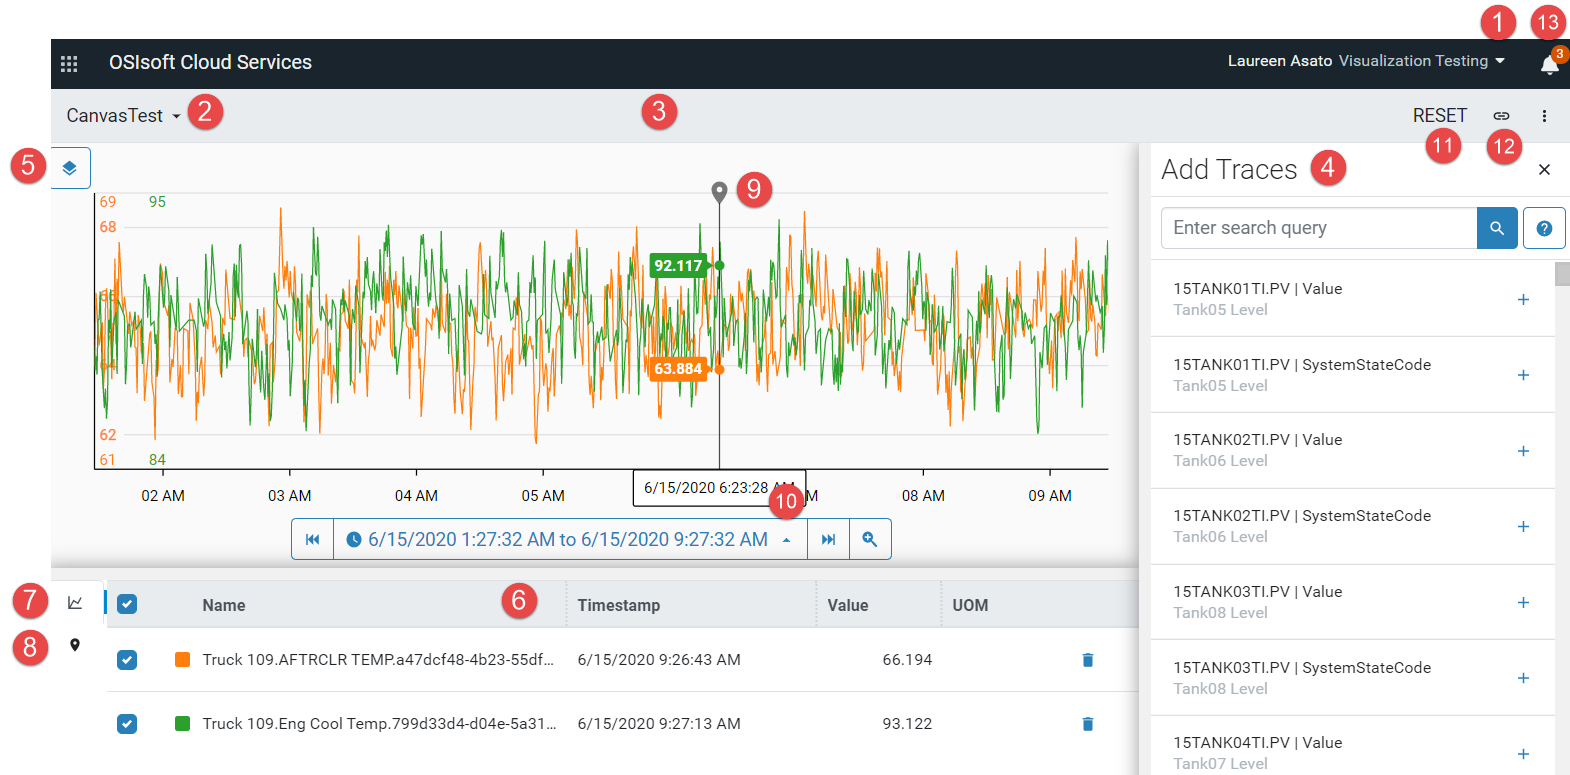
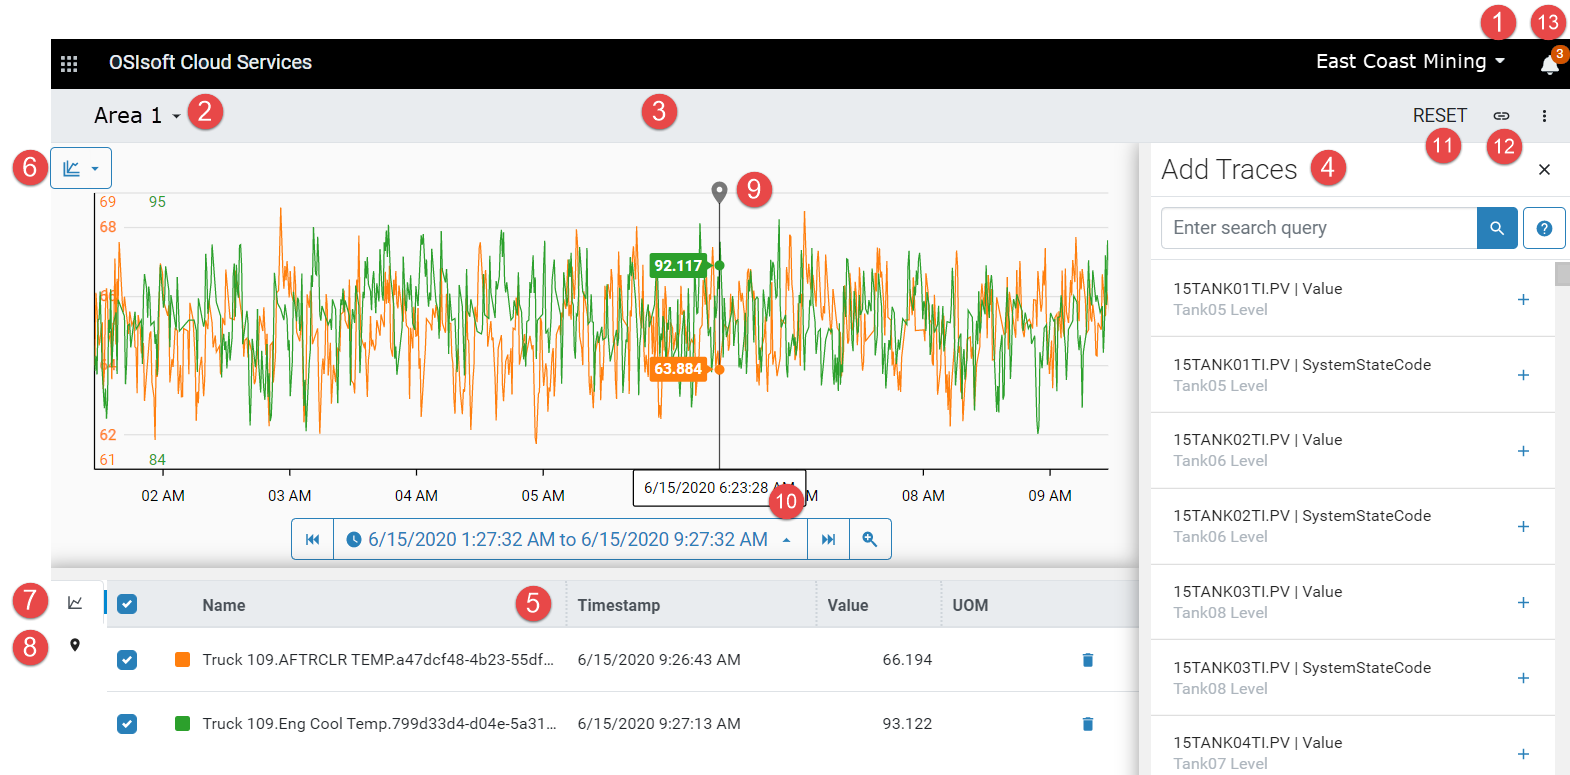
Edited Trend topics, added image files

Changed region(s): [[0.0312, 0.031, 1.0, 0.1548], [0.3121, 0.7432, 0.3745, 0.8052], [0.0, 0.1858, 0.0624, 0.2477]]

diff --git a/Content_Portal/Quickstarts/Getting-Started-Trend.md b/Content_Portal/Quickstarts/Getting-Started-Trend.md
@@ -9,8 +9,6 @@ Trace data can be displayed in a trend and used to monitor assets, anticipate pr
 
 The following procedure describes how to display traces in your trend and glean useful information from your data.
 
-WRITER'S NOTE: Once we approve the text, I will update the screen captures and use the same traces in all the examples.
-
 Procedure
 ---------
 
@@ -18,23 +16,24 @@ Procedure
 
 2.  Click the navigation icon ![](images\icon_navigation_bigger.png) (upper left corner) and click **Trend** (under Visualization). 
     
-3. In the Add Traces blade, click the + sign to add the trace to the trend. 
+3. In the Add Traces blade, click the **+** sign to add the trace to the trend. 
 
-   Tip: Use the Search box to find the traces you are interested in.
+   Tip: 
 
-   Tip: After you have finished adding the traces, click the X in the Add Traces blade to hide the blade and maximize the available area to display your trend.
+   - Use the Search box to find the OCS streams and properties you are interested in.
+
+   - After you have finished adding the traces, click the **x** in the Add Traces blade to hide the blade and maximize the available area to display your trend.
+
 
     ![Search blade](images\Search_blade_75.png)
 
-4. Click on the ![Trend views icon](images\Trend_views_icon.png)icon to choose one of the three views:
+4. Click on the ![Trend views icon](images\Trend_mode_icon.png)icon to choose one of the three views:
 
-   Stacked – Each trace is displayed in its own trend.
-
-   Single – All measurements are plotted on the same scale.
-
-   Multiple – All measurements are plotted on its own scale.
-
-   WRITER's COMMENT: I will update the icons in this step once they become available.
+   | Trend View                               | Description                                     |
+   | ---------------------------------------- | ----------------------------------------------- |
+   | ![](images\Single mode.png)              | Each trace is displayed in its own trend.       |
+   | ![](images\Multiple mode.png)            | All measurements are plotted on the same scale. |
+   | ![Stacked mode](images\Stacked mode.png) | All measurements are plotted on its own scale.  |
 
 5. In the time range picker, click **Step backward** or **Step forward** to move the time range of the data displayed in the trend.
 
@@ -46,20 +45,17 @@ Procedure
 
    ![Legend Table](images\Legend_Table_Med.png)
 
-   WRITER'S NOTE: Personally, I don't like the name "Legend table" to identify this UI element. It's more than a "legend" because it includes information about the traces. 
-
-   WRITER'S NOTE: What are the names of the "views" of this table--when you click the trace and cursor icons. (I've identified them as Trace view and Cursor view in this procedure just to be able to have a name to call them.) We need tool tips for these icons to help identify them.
-
 6. Click on a trace to select it for further analysis
 
-   The selected trace is highlighted, and two cursors automatically mark the minimum and maximum values for the displayed time range. These "easy cursors" remain as long as the trace is highlighted.
+   The selected trace is highlighted, and two cursors automatically mark the minimum and maximum values for the displayed time range. These *easy cursors* remain as long as the trace is highlighted.
 
    ![Maximum and minimum cursors](images\Max_min__cursors.png)
 
-   Click the plus sign (+) above the trace to lock the cursors in place. The “+” turns into an “x.”  To unlock the cursor, click the “x.”
+   Click the plus sign (+) above the trace to lock the cursors in place. The **+** turns into an **x**.  To unlock the cursor, click the **x**.
 
    Note: When two cursors are locked, the Legend table displays summary calculations for the values between the two cursors, known as the Cursor view.
-   ![Cursor view](images\Cursor_view.png)
+
+   ![Cursor_view](images\Cursor_view.png)
 
 7. Click the link icon ![Copy link icon](images\copy_url_link.png) in the menu bar to copy the URL of the workspace.
 

diff --git a/Content_Portal/Quickstarts/Trend-UI.md b/Content_Portal/Quickstarts/Trend-UI.md
@@ -4,9 +4,7 @@ uid: TrendUserInterface
 
 # Trend User Interface
 
-The screen capture and table below identify the important elements of the user interface and how to interact with the application. For more information on how to use the Trend page to analyze traces, see [Getting Started with Trend Data](xref:GettingStartedWithTrendData).
-
-WRITER'S NOTE: I will anonymize identifying information (user name) and tenant from the final screen capture.
+The screen capture and table below identify the important elements of the Trend user interface and how to interact with the application. For more information on how to use the Trend page to analyze traces, see [Getting Started with Trend Data](xref:GettingStartedWithTrendData).
 
 ![Trend page](images\Trend_full_page.png)
 
@@ -15,11 +13,11 @@ WRITER'S NOTE: I will anonymize identifying information (user name) and tenant f
 | 1      | Tenant &ndash; Click the triangle and select the tenant from the list. |
 | 2      | Namespace &ndash; Click the triangle and select the namespace from the list. |
 | 3      | Trend pane &ndash; Displays the selected traces.             |
-| 4      | Add Traces pane &ndash; Click the + to add the trace to the trend pane. |
-| 5      | Trend view mode &ndash; Click to toggle between the stacked, single-scale, and multi-scale view modes. |
+| 4      | Add Traces pane &ndash; Click the **+** to add the trace to the trend pane. |
+| 5      | Trend mode &ndash; Click to toggle between the stacked, single-scale, and multi-scale view modes. |
 | 6      | Legend table &ndash; Displays information about the traces in the Trend pane. Toggle between the Trend and Cursor views. |
-| 7      | Trend view &ndash; Click the Trend icon to display statistics about each trace. The screen capture shows the trend view. [WRITER'S NOTE: #7 and #3 are identical terms. We need to find a different term for one of them.] |
-| 8      | Cursor view &ndash; Click the Cursor icon to display cursor statistics. The cursor must be locked (click the + above the cursor) in order to display the statistics. With two or more locked cursors, summary statistics are displayed for contiguous cursors. |
+| 7      | Trend view &ndash; Click the Trend icon to display statistics about each trace. The screen capture shows the trend view. |
+| 8      | Cursor view &ndash; Click the Cursor icon to display cursor statistics. The cursor must be locked (click the **+** above the cursor) in order to display the statistics. With two or more locked cursors, summary statistics are displayed for contiguous cursors. |
 | 9      | Cursor &ndash; Place cursors to get minimum, maximum, average, and delta values between two points in time. |
 | 10     | Time range picker &ndash; Specify the time range by selecting a time range, specifying a custom range, or using the step forward and step backward arrows. |
 | 11     | Reset &ndash; Clears the workspace.                          |
